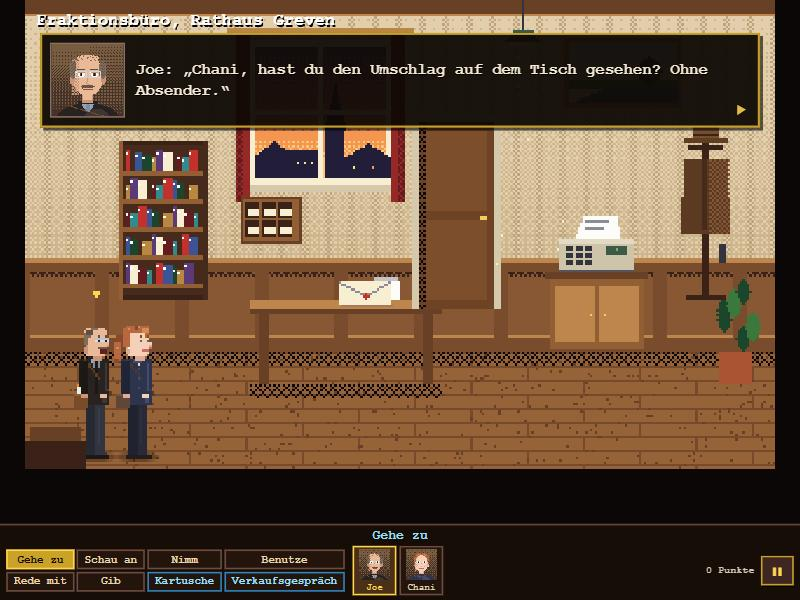
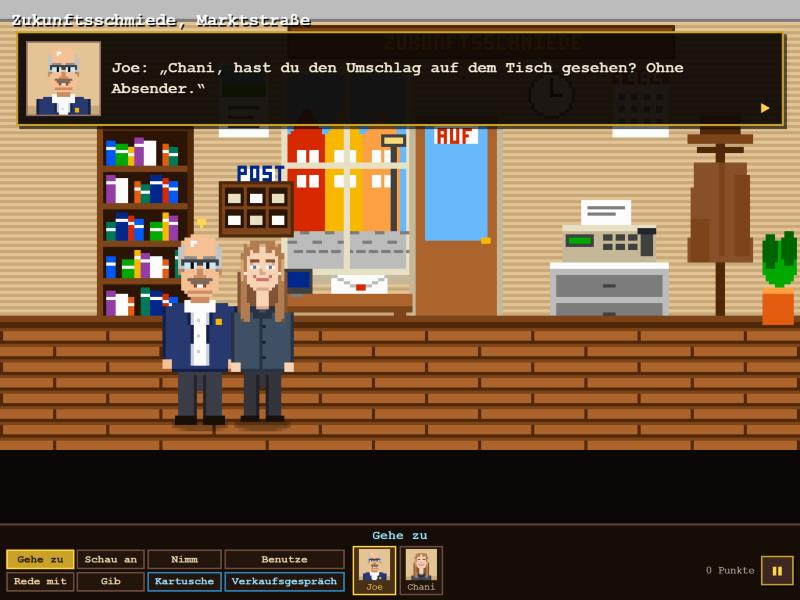
Spiel: Feinschliff nach Durchspielen (Startplätze, Boot im Wasser, Motorboot, Finale, Reiselinie, Leiste), neue Screenshots aller Szenen

diff --git a/src/FraktionPerfekt.Web/Spiel/darstellung.js b/src/FraktionPerfekt.Web/Spiel/darstellung.js
@@ -22,8 +22,10 @@
     let verb = 'gehe', objekt = null;          // gewähltes Verb und Gegenstand („Benutze X mit …“)
     let blende = null;                          // { t, ziel } Irisblende
     let zeit = 0, geladen = false;
-    const START_JOE = 36, START_CHANI = 56;
-    const held = { joe: { x: START_JOE, ziel: START_JOE, blick: 1, schritt: 0 }, chani: { x: START_CHANI, ziel: START_CHANI, blick: 1, schritt: 0 } };
+    // Startplatz: rechts neben den Personen am linken Bildrand; im Büro links vom Schreibtisch, damit der Umschlag sichtbar bleibt
+    const startX = (szene) => (szene === 'buero' ? [64, 84] : szene === 'tempel' && z && z.flags.kugelGeschafft ? [116, 136] : [92, 112]);
+    function aufStart() { const [j, c] = startX(z ? z.szene : 'buero'); held.joe.x = held.joe.ziel = j; held.chani.x = held.chani.ziel = c; held.joe.blick = held.chani.blick = 1; }
+    const held = { joe: { x: 64, ziel: 64, blick: 1, schritt: 0 }, chani: { x: 84, ziel: 84, blick: 1, schritt: 0 } };
     let laufAuftrag = null;                     // wird nach Ankunft ausgeführt
     let sprecher = null, sprecherSchreck = false; // für Sprechanimation
     const R = (h) => G.R(h, z);
@@ -100,7 +102,7 @@
             const f = Math.floor(zeit * 10 + fx) % 3;
             t2.fillStyle = f === 0 ? 'rgb(252,152,56)' : f === 1 ? 'rgb(252,216,120)' : 'rgb(252,252,188)';
             t2.fillRect(fx + (f === 2 ? 0 : 1), fy - 9 - f, 1 + (f === 1 ? 1 : 0), 2);
-            t2.globalAlpha = 0.1 + f * 0.03; t2.fillStyle = 'rgb(255,200,100)'; t2.beginPath(); t2.arc(fx + 1, fy - 4, 16 + f, 0, Math.PI * 2); t2.fill(); t2.globalAlpha = 1;
+            t2.globalAlpha = 0.05 + f * 0.02; t2.fillStyle = 'rgb(255,200,100)'; t2.beginPath(); t2.arc(fx + 1, fy - 4, 16 + f, 0, Math.PI * 2); t2.fill(); t2.globalAlpha = 1;
         }
         // Wasser glitzert
         if (z.szene === 'ems') { for (let i = 0; i < 10; i++) { const x = Math.round((i * 47 + zeit * 8 * (1 + (i % 3))) % B), y = 96 + (i * 13) % 40; t2.fillStyle = 'rgb(188,228,252)'; t2.fillRect(x, y, 3 + (i % 2), 1); } }
@@ -122,8 +124,8 @@
         }
         if (z.szene === 'tempel' && z.flags.kugelGeschafft) {
             const wackel = Math.floor(zeit * 3) % 2;
-            figuren.push({ y: BODEN - 4, name: 'hohlbein', x: 110, zustand: z.ende ? 'erschrocken' : 'reden', blick: 1 });
-            figuren.push({ y: BODEN - 5 - wackel, name: 'droehn', x: z.ende ? 186 : 140, zustand: z.ende ? 'erschrocken' : 'stehen', blick: 1 });
+            figuren.push({ y: BODEN - 4, name: 'hohlbein', x: z.ende ? 214 : 196, zustand: z.ende ? 'erschrocken' : 'reden', blick: -1 });
+            figuren.push({ y: BODEN - 5 - wackel, name: 'droehn', x: z.ende ? 240 : 222, zustand: z.ende ? 'erschrocken' : 'stehen', blick: -1 });
         }
         for (const n of ['joe', 'chani']) {
             const hh = held[n];
@@ -161,7 +163,7 @@
             const n = Math.max(8, Math.round(Math.hypot(b.x - a.x, b.y - a.y) / 2)), bis = Math.floor(t * n);
             const bogen = (u) => ({ x: a.x + (b.x - a.x) * u, y: a.y + (b.y - a.y) * u - Math.sin(u * Math.PI) * 10 });
             t2.fillStyle = 'rgb(188,0,0)';
-            for (let i = 0; i <= bis; i++) { if (i % 3 === 2) { continue; } const p = bogen(i / n); t2.fillRect(Math.round(p.x) - 1, Math.round(p.y) - 1, 2, 2); }
+            for (let i = 0; i <= bis; i++) { const p = bogen(i / n); if (i % 3 === 2 || Math.hypot(p.x - a.x, p.y - a.y) < 6 || Math.hypot(p.x - b.x, p.y - b.y) < 6) { continue; } t2.fillRect(Math.round(p.x) - 1, Math.round(p.y) - 1, 2, 2); }
             const p = bogen(t);
             t2.fillStyle = 'rgb(60,30,20)'; t2.fillRect(Math.round(p.x) - 3, Math.round(p.y) - 9, 7, 3); t2.fillRect(Math.round(p.x) - 2, Math.round(p.y) - 12, 5, 3);
         }
@@ -190,14 +192,14 @@
         }
         const vy = spurY(1) + Math.sin(zeit * 1.5) * 26;
         oberkoerper('hohlbein', B - 66, vy - 30); oberkoerper('droehn', B - 46, vy - 32);
-        teil({ bild: 'motorboot_64x24', sx: 0, b: 64, h: 24, x: B - 70, y: vy - 2 });
+        t2.save(); t2.translate(2 * (B - 70) + 64, 0); t2.scale(-1, 1); teil({ bild: 'motorboot_64x24', sx: 0, b: 64, h: 24, x: B - 70, y: vy - 2 }); t2.restore(); // Bug nach links
         t2.fillStyle = 'rgb(188,228,252)'; for (let i = 0; i < 5; i++) { t2.fillRect(B - 6 + i * 2, vy + 14 + (Math.floor(zeit * 20 + i) % 3), 2, 1); }
     }
 
     function zeichneKugel(sim) {
         const weg = (p) => 30 + p * (B - 90);
         streifen('minispiel_gang_512x144', sim.pos * 400);
-        const sx = weg(sim.pos), kx = weg(sim.kugel) - 30, boden = 132;
+        const sx = weg(sim.pos), kx = weg(sim.kugel) - 44, boden = 132;
         const lauf = Math.floor(zeit * 12);
         if (sim.lastenrad) {
             teil({ bild: 'lastenrad_48x32', sx: 0, b: 48, h: 32, x: sx - 22, y: boden - 30 });
@@ -253,7 +255,7 @@
             if (blende) { blende.t += dt * 1.6; if (blende.t >= 0.5 && !blende.gewechselt) { blende.gewechselt = true; blende.wechsel(); } if (blende.t >= 1) { blende = null; } }
             if (mini && textbox.hidden && dialogEl.hidden) {
                 if (mini.art === 'boot') { S.bootSchritt(mini, dt, eingabeBoot); eingabeBoot = null; } else { S.kugelSchritt(mini, dt, eingabeKugel); eingabeKugel = false; }
-                if (mini.status !== 'laeuft') { const art = mini.art, ok = mini.status === 'gewonnen'; mini = null; klang(ok ? 'erfolg' : 'fehler'); ergebnis(S.minispielEnde(z, art, ok)); if (!ok) { danach = { minispiel: art }; } }
+                if (mini.status !== 'laeuft') { const art = mini.art, ok = mini.status === 'gewonnen'; mini = null; klang(ok ? 'erfolg' : 'fehler'); ergebnis(S.minispielEnde(z, art, ok)); if (ok && art === 'kugel') { aufStart(); } if (!ok) { danach = { minispiel: art }; } }
             }
             if (reise) { reise.t += dt * 0.9; if (reise.t >= 1.15) { const ziel = reise.nach; reise = null; szenenwechsel(() => { const v = z.szene; ergebnis(S.reisen(z, ziel), v); }); } }
             laufen(dt);
@@ -326,7 +328,7 @@
         if (z.szene !== vorher) {
             if (z.szene !== 'karte' && S.SZENEN[z.szene] && !(e.text || []).includes(S.SZENEN[z.szene].einstieg)) { warteschlange.push(S.SZENEN[z.szene].einstieg); }
             if (S.ORTE[vorher]) { letzterOrt = vorher; }
-            held.joe.x = held.joe.ziel = START_JOE; held.chani.x = held.chani.ziel = START_CHANI; held.joe.blick = held.chani.blick = 1;
+            aufStart();
             plaetze.schreiben('auto', z);
         }
         if (e.ende) { plaetze.schreiben('auto', z); if (window.Musik && window.Musik.an) { window.Musik.spielen(true); } else { klang('ende'); } }
@@ -535,7 +537,7 @@
         z = zustand; mini = null; reise = null; blende = null; pausiert = false; laufAuftrag = null;
         menueEl.hidden = true; titelEl.hidden = true; dialogEl.hidden = true; kontextEl.hidden = true;
         warteschlange = []; danach = null; verb = 'gehe'; objekt = null;
-        held.joe.x = held.joe.ziel = START_JOE; held.chani.x = held.chani.ziel = START_CHANI;
+        aufStart();
         letzterOrt = S.ORTE[z.szene] ? z.szene : 'buero';
         $('leiste').hidden = false;
         leisteAktualisieren();

diff --git a/src/FraktionPerfekt.Web/Spiel/spiel.css b/src/FraktionPerfekt.Web/Spiel/spiel.css
@@ -42,7 +42,7 @@ button:hover, button:focus-visible { background: #5d4037; outline: 2px solid #ff
 /* Leiste im klassischen Stil: Satzzeile, Verben, Figuren, Inventar */
 #leiste { position: fixed; left: 0; right: 0; bottom: 0; background: #160d07; border-top: 3px solid #5d4037; padding: 4px 8px 6px; }
 #satz { min-height: 22px; color: #9fe0ff; font-weight: bold; font-size: 16px; text-align: center; letter-spacing: .5px; }
-#leistenreihe { display: flex; gap: 10px; align-items: center; overflow-x: auto; white-space: nowrap; }
+#leistenreihe { display: flex; gap: 10px; align-items: center; }
 #verben { display: grid; grid-template-columns: repeat(4, auto); gap: 3px; }
 .verb { font-size: 14px; padding: 3px 8px; border-color: #6d4c41; color: #e8d6b0; background: #24150c; box-shadow: none; font-weight: bold; }
 .verb.aktiv { background: #c9a227; color: #160d07; border-color: #ffd54f; }
@@ -52,7 +52,7 @@ button:hover, button:focus-visible { background: #5d4037; outline: 2px solid #ff
 .figur { display: flex; flex-direction: column; align-items: center; gap: 2px; padding: 2px 6px; font-size: 12px; color: #e8d6b0; background: #24150c; border-color: #6d4c41; box-shadow: none; }
 .figur .mini { width: 40px; height: 40px; image-rendering: pixelated; }
 .figur.aktiv { border-color: #ffd54f; background: #4a3016; color: #ffd54f; }
-#inventar { display: flex; gap: 4px; flex-wrap: nowrap; }
+#inventar { display: flex; gap: 4px; flex-wrap: wrap; flex: 1 1 auto; min-width: 0; }
 .ding { padding: 2px; background: #24150c; border-color: #6d4c41; box-shadow: none; }
 .ding .icon { width: 40px; height: 40px; image-rendering: pixelated; display: block; }
 .ding.aktiv { border-color: #9fe0ff; background: #12324a; }
@@ -68,3 +68,5 @@ button:hover, button:focus-visible { background: #5d4037; outline: 2px solid #ff
     #portrait canvas { width: 64px; height: 64px; }
     #punkte { display: none; }
 }
+#verben, #figuren, #rechts { flex: none; }
+#verben button, #punkte { white-space: nowrap; }

diff --git a/src/FraktionPerfekt.Web/Spiel/grafik.js b/src/FraktionPerfekt.Web/Spiel/grafik.js
@@ -46,7 +46,7 @@
     function ueberlagerungen(z, t) {
         const f = z.flags, o = [];
         const teil = (bild, i, b, h, x, y) => o.push({ bild, sx: i * b, sy: 0, b, h, x, y });
-        if (z.szene === 'ems' && !f.bootGewonnen) { teil('ruderboot_46x14', 0, 46, 14, 144, 100 + (Math.floor(t * 1.5) % 2)); }
+        if (z.szene === 'ems' && !f.bootGewonnen) { teil('ruderboot_46x14', 0, 46, 14, 144, 93 + (Math.floor(t * 1.5) % 2)); }
         if (z.szene === 'baustelle' && !f.grubeTrocken) { teil('leck_26x12_x3', Math.floor(t * 6) % 3, 26, 12, 118, 76); }
         if (z.szene === 'schule') {
             teil('uhr_zeiger_26x23_x2', f.abend ? 1 : 0, 26, 23, 154, 20);

diff --git a/src/FraktionPerfekt.Web/Spiel/logik.js b/src/FraktionPerfekt.Web/Spiel/logik.js
@@ -253,7 +253,7 @@
                     }
                 },
                 {
-                    id: 'boot', name: 'Ruderboot „Volkseigentum“', x: 56.25, y: 69.4, b: 18, h: 9.7, form: 'boot',
+                    id: 'boot', name: 'Ruderboot „Volkseigentum“', x: 56.25, y: 64.6, b: 18, h: 9.7, form: 'boot',
                     sichtbar: (z) => !z.flags.bootGewonnen,
                     ansehen: () => antwort('Ein Ruderboot. Flussabwärts tuckert ein Motorboot – Hohlbein und Dröhn haben sich wohl losgeschnitten.'),
                     benutzen: (z) => hat(z, 'paddel')
